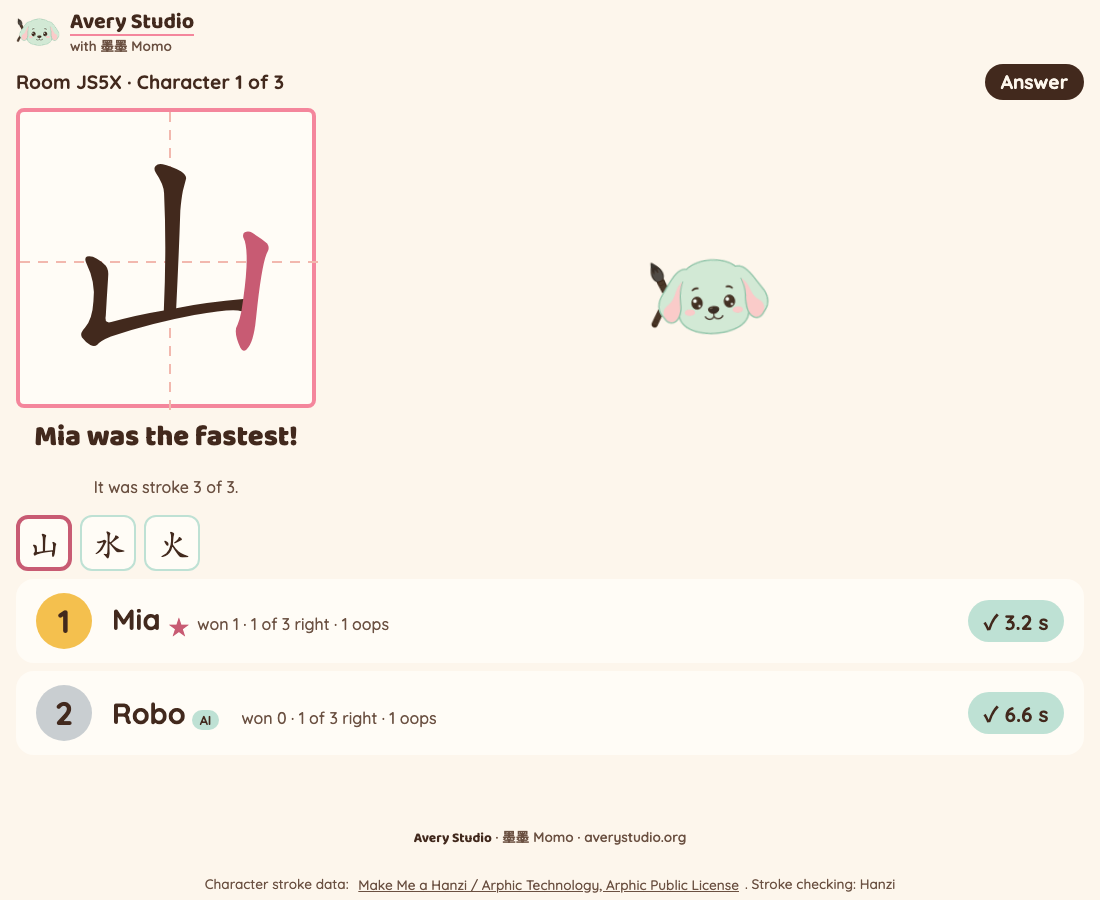
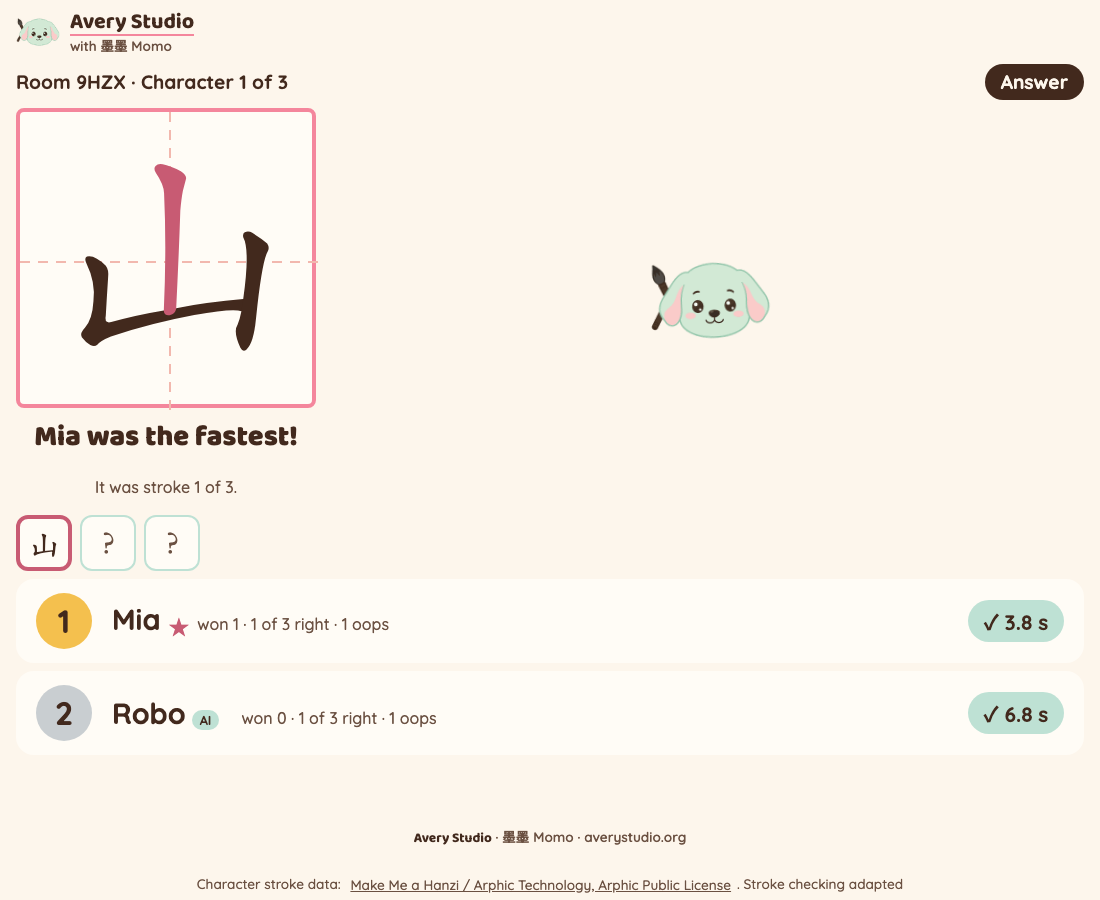
docs(missing-stroke): rounds 2 and 3 in the report, live receipt 23/23 on f97a2e90

diff --git a/missing-stroke/docs/2026-09-28-build-report.md b/missing-stroke/docs/2026-09-28-build-report.md
@@ -11,26 +11,34 @@ tests or read in source, not live, **C** = assumed.
 | 2 | The missing stroke's number reached every phone | Phones get `turn.visible` (the other strokes, unlabelled) and `turn.answer` only after the close, once right, or as their own earned hint; `state.hidden` and `turn.hidden` are gone from every view, before and after GO. No third-party script runs on the page any more | A (live gate: start payload has 2 of 3 strokes and no "hidden" anywhere; Bo sees no answer while open; answer shown after close) + B (test: no field, no path, no median of the hidden stroke in the view) |
 | 3 | One-stroke characters gave a blank pad | `minStrokesToPlay: 2`; skipped with the note "一 has only one stroke, so we skipped it"; `state.list.skipped` in the API | A (live gate: 一 in `skipped`) + B (test) |
 | 4 | Header link stayed for a late kid | Plain text for any kid while a game is live | B (test) |
-| 5 | Joins unlimited | 40 joins per room per minute (`joinsPerRoomPerWindow`, plain message) and a per-IP limit (`JOIN_LIMITER`, namespace 1052, 60/min, a class shares one IP) | B (test for the room limit; the IP limit is a Cloudflare binding, seen in the deploy output) |
+| 5 | Joins unlimited; (round 2) a flood could still fill the 200 stored seats | 40 joins per room per minute (`joinsPerRoomPerWindow`, plain message), 40 per IP per minute (`JOIN_LIMITER`, namespace 1052), caps count ACTIVE seats, and seats of kids who left are reclaimed when the 200 stored seats run out | B (tests: the room limit, and an 8-minute flood after which a real kid still joins; the IP limit is a Cloudflare binding, seen in the deploy output) |
 | 6 | Local checks graded A | Regraded below: local tests and static checks are B | n/a |
 | 7 | "Change the list" tap target | `summary` is 64 px tall with a focus ring | B |
 | 8 | Two tabs / lost response | A same-number send from a second tab is not graded (`duplicate`), the tab resyncs its number and draws again; a lost answer's retry reads "right" back from the room; tests for both, and the pad follows the room's word (`strokeOutcome`) | B (tests) |
 | 9 | A missing middle stroke crossed by later strokes | 我 stroke 2 and 十 stroke 1 (crossed) are accepted when drawn, also as a shaky offset copy; tracing the crossing stroke is refused | B (tests on real data); live runs drew hidden strokes 0 and 3 |
 | C1 | Board chips showed the current character whole | Only finished characters show; the current and upcoming ones are "?" | A (still `missing-stroke-board-live.png` and the demo, looked at) |
+| R2 | Solo never explained a skipped one-stroke character in a mixed list (一山) | The class notice ("一 has only one stroke, so we skipped it") shows on the solo countdown screen | A (live solo check, see below) |
+| R3-1 | Matcher cost: a stroke that returns to its own centre (near-zero scale) could hold a room for seconds | Points per stroke capped at 200 (`maxStrokePoints`), finite numbers checked, strokes smaller than `minStrokeSpan` refused, and the normalized length capped at 10 units (all 112,617 real strokes in hanzi-writer-data 2.0.1 measure 4.78 or less) with at most 250 subdivided points | B (tests: crafted figure-eights at 4 sizes and a 200-point zigzag each grade in under 20 ms; every fixture stroke is under the guard) |
+| R3-2 | A list or settings change during Start's stroke-data wait could start characters never loaded | After the wait the room re-reads the character set and loads again if it moved (`startLoadAttempts`), else asks to tap Start again | B (test: a list change lands mid-wait; the game starts with the new character loaded and its strokes are graded, not 503) |
+| R3-3 | A drag far off the pad got a 400 and "internet hiccuped" | The phone does not send a drag that wanders off the pad (`padOutsideMargin`) and says "Draw inside the box!" | B (tests) |
 | C3 | Old notices lingered | The hiccup and "draw again" lines clear on the next confirmed answer; the hint line clears on a right answer or the next character | B |
 
 ## Final live receipt
 
-Deployed version `f3a155ff-a967-4913-9c19-c2f98c960f68` (commit `3fadd4c`) on
+Deployed version `f97a2e90-e40f-4810-b58a-a6e654f9c66d` (commit `4ad8235`) on
 https://missing-stroke.joyd-ai-2026.workers.dev. Live gate, run 15 s after the deploy:
 **23 of 23 checks pass** (`docs/evidence/2026-09-28-live-gate.json`). The clock check,
-quoted: closedAt `1790630570902` = expected `1790630570902` (first right + 6000 ms), endedAt
-`1790630574402` = expected `1790630574402` (+ 3500 ms reveal), with nobody polling.
+quoted from the receipt: closedAt `1790632496913` = expected `1790632496913` (first right + 6000 ms), endedAt
+`1790632500413` = expected `1790632500413` (+ 3500 ms reveal), with nobody polling.
 
 Also live on this version (A): a headless class run on a 390 px phone with real pointer drags
 (the backwards stroke was graded wrong and the pad wiggled; the kid then drew all 3 missing
 strokes right; in this take the AI player won all 3 characters, a real result), and a solo run
-(5 of 5). 0 console errors in both. Demo re-recorded on this version.
+(5 of 5, on `f3a155ff`). 0 console errors in both. The class run was repeated on `f97a2e90` (backwards stroke wiggled,
+3 of 3 drawn right, 0 console errors). The solo skip note ("一 has only one stroke, so we skipped it")
+was checked live on `f4dd55e2` (still `docs/demo/missing-stroke-solo-skip-note.png`). The demo video
+was recorded on `f3a155ff`; the changes since (the skip note, "Draw inside the box!", seat reuse,
+grading guards) do not show in a normal game.
 
 ## What shipped (first pass; see the review table above for what changed)
 
@@ -56,9 +64,9 @@ strokes right; in this take the AI player won all 3 characters, a real result), 
 
 ## Checks (final)
 
-- `npm test`: 78 vitest tests in 8 files + 5 node agent tests, all green (B: local).
+- `npm test`: 84 vitest tests in 8 files + 5 node agent tests, all green (B: local).
 - `npm run typecheck`, `check:xss`, `check:palette`, `check:brand`: all pass (B: local).
-- Live gate: 23 of 23 checks pass on the final version (A).
+- Live gate: 23 of 23 checks pass on the final version `f97a2e90` (A).
 - Solo run on the final version: 5 of 5, 0 console errors (A).
 
 ## Codex review (3 rounds, read-only, adversarial)
